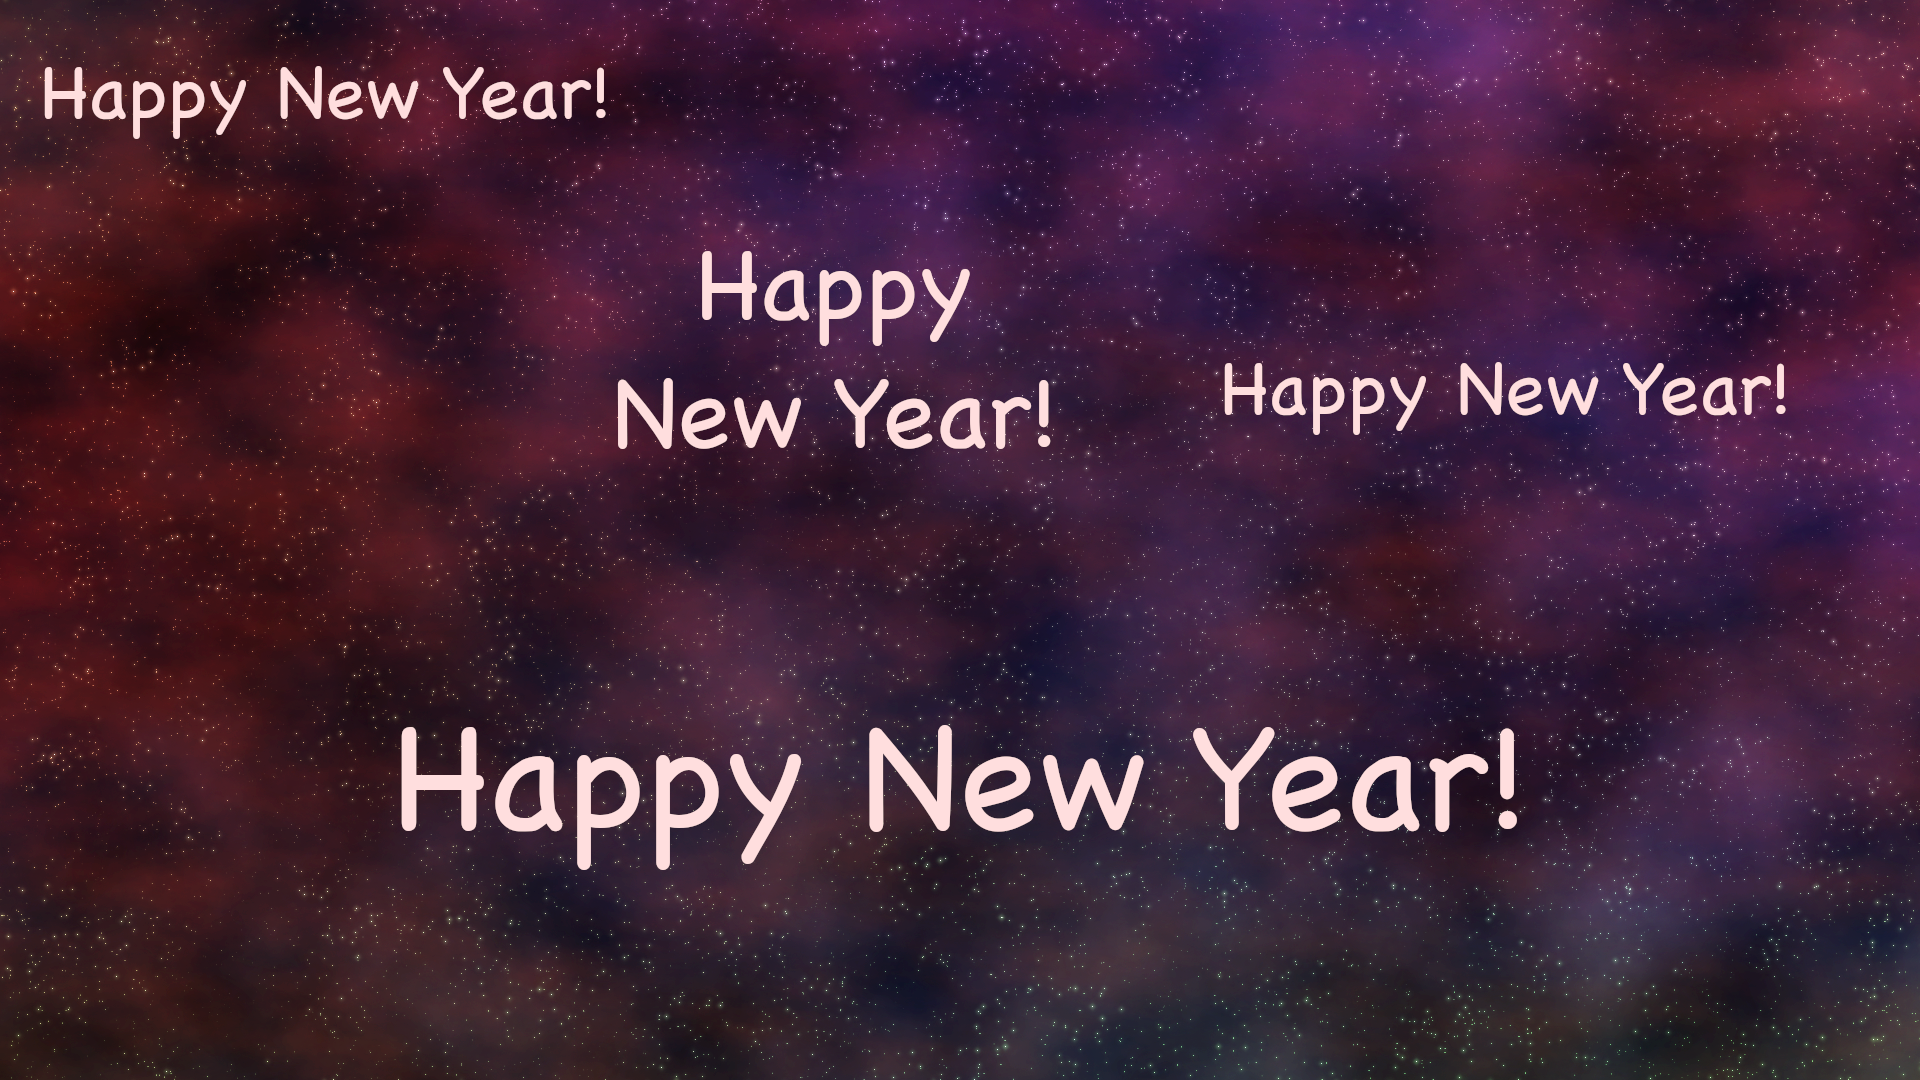
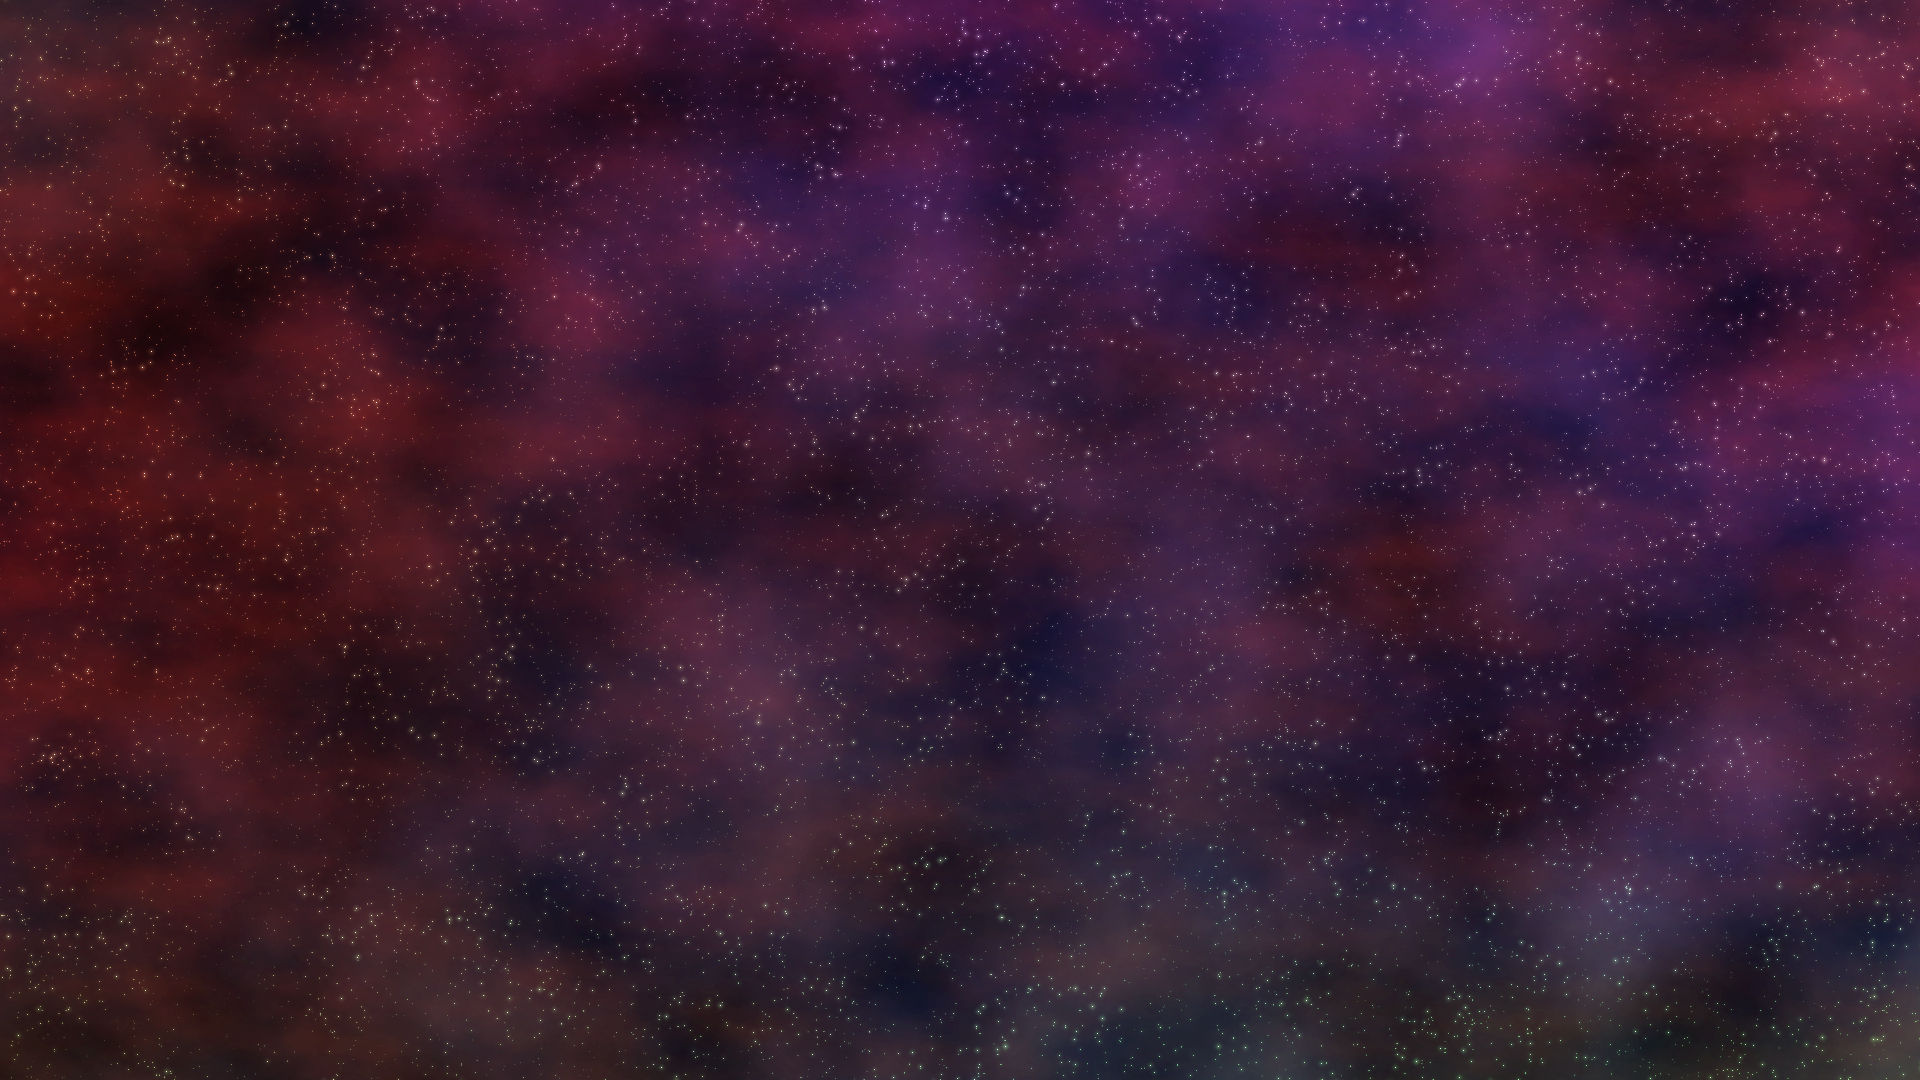
new year text change

diff --git a/src/index.js b/src/index.js
@@ -50,13 +50,20 @@ function initializeBody() {
 	document.body.style.color = "black";
 }
 
-function changeBackgroundState() {
+function onNewYear() {
 	if (backgroundState == 0) {
+		// Change background
 		document.body.style.backgroundColor = "#FFDEDE00";
 		let navbar = document.getElementsByClassName("navbar")[0];
 		navbar.style.backgroundColor = "#FFCECE00";
 		navbar.style.borderBottomColor = "#00000030";
 		document.body.style.color = "white";
+
+		// Show text
+		let newYearText = document.getElementById("happy-new-year");
+		newYearText.removeAttribute("hidden");
+		document.getElementById("new-year-number").innerText = nowDate.getFullYear();
+
 		backgroundState = 1;
 	}
 }
@@ -93,7 +100,7 @@ function writeTime() {
 	let msSinceNewYear = nowDate.getTime() - newYear.getTime();
 	let msSinceYearBegin = nowDate.getTime() - yearBegin.getTime();
 	if (0 <= msSinceNewYear || msSinceYearBegin / 1000 / secPerDay <= 12) {
-		changeBackgroundState();
+		onNewYear();
 	}
 }
 

diff --git a/index.html b/index.html
@@ -26,5 +26,14 @@
             <p id="countdown-year-begin">???</p>
             <p id="countdown-new-year">???</p>
         </div>
+        <!-- Happy New Year -->
+        <div id="happy-new-year" style="font-size: 75px; font-weight: 800; color: #FFDEDE; text-align: center;" hidden>
+            <p>
+                Happy New Year!<br>
+                <span id="new-year-number">
+                    ???
+                </span>
+            </p>
+        </div>
     </body>
 </html>
